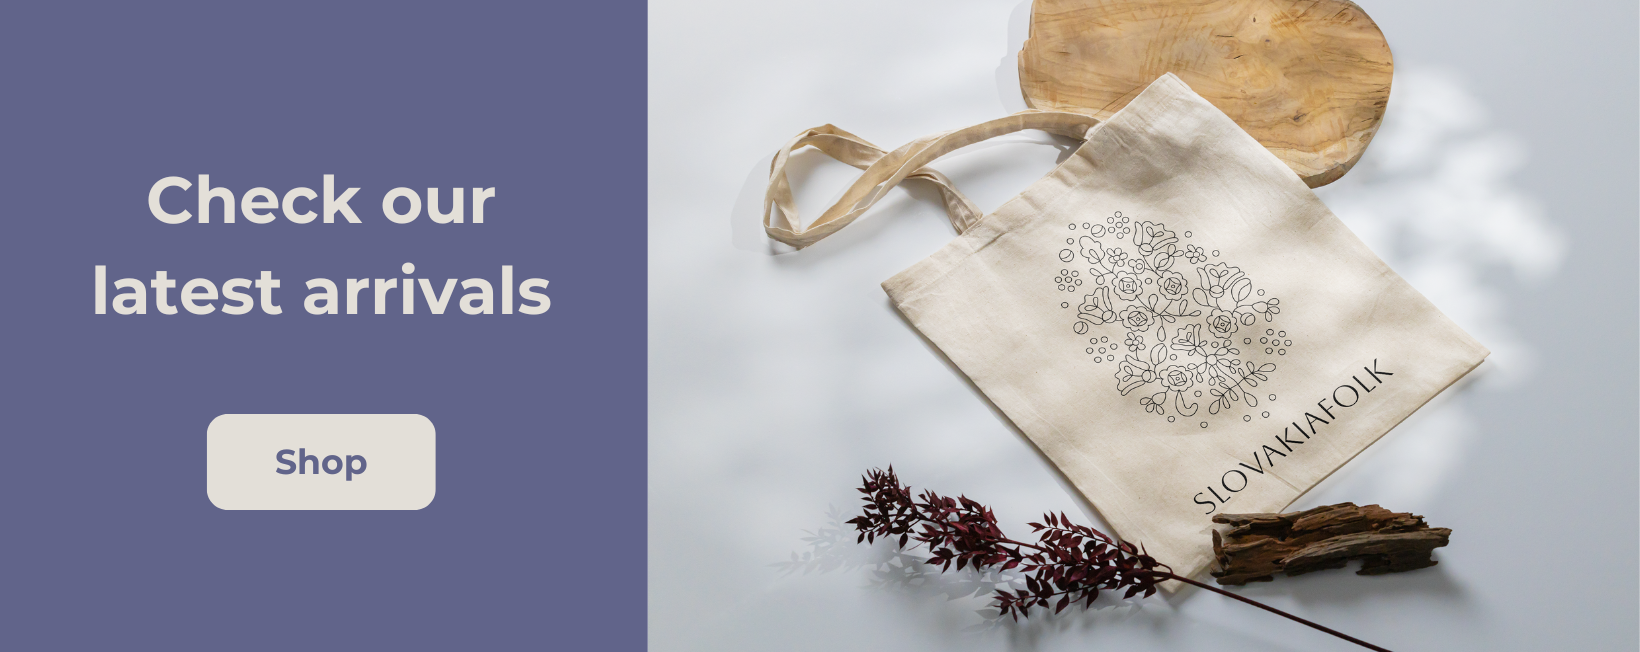
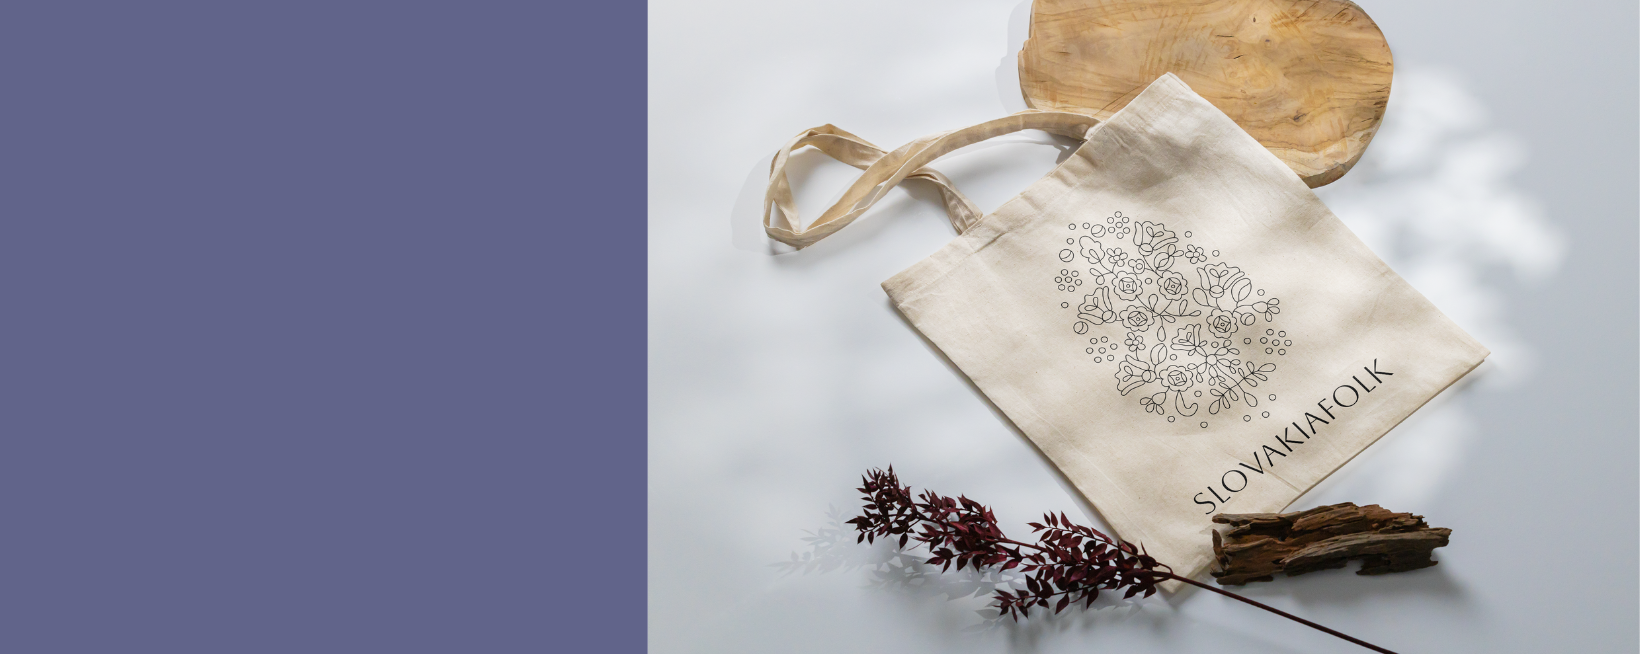
hero section

diff --git a/css/main.css b/css/main.css
@@ -46,6 +46,19 @@ i {
 /* Hero image*/
 
 .hero {
+  background-color: #61648a;
   background-image: url("img/hero-one.png");
+  height: 90vh;
   width: 100%;
+  background-size: cover;
+  background-position: top 25% right 0;
+  padding: 0 80px;
+  display: flex;
+  flex-direction: column;
+  align-items: flex-start;
+  justify-content: center;
+}
+h1 {
+  font-size: 50px;
+  font-weight: 600;
 }
